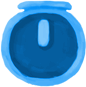
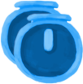
Added punctual power

diff --git a/ScheduleMod/src/main/java/schedulemod/powers/PunctualPower.java b/ScheduleMod/src/main/java/schedulemod/powers/PunctualPower.java
@@ -1,0 +1,69 @@
+package schedulemod.powers;
+
+import basemod.interfaces.CloneablePowerInterface;
+import schedulemod.cards.EventCard;
+import schedulemod.character.Entropy;
+
+import com.megacrit.cardcrawl.actions.common.RemoveSpecificPowerAction;
+import com.megacrit.cardcrawl.cards.AbstractCard;
+import com.megacrit.cardcrawl.core.AbstractCreature;
+import com.megacrit.cardcrawl.powers.AbstractPower;
+import static schedulemod.BasicMod.makeID;
+
+public class PunctualPower extends BasePower implements CloneablePowerInterface, EventPowerInterface {
+    public static final String POWER_ID = makeID("Punctual");
+    private static final AbstractPower.PowerType TYPE = PowerType.BUFF;
+    private static final boolean TURN_BASED = true;
+    private static final boolean CAN_GO_NEGATIVE = true;
+
+    public PunctualPower(AbstractCreature owner, AbstractCreature source, int amount) {
+        super(POWER_ID, TYPE, TURN_BASED, owner, source, amount);
+        this.canGoNegative = CAN_GO_NEGATIVE;
+    }
+
+    public void stackPower(int stackAmount) {
+        this.fontScale = 8.0F;
+        this.amount += stackAmount;
+        if (this.amount == 0)
+            addToTop(new RemoveSpecificPowerAction(this.owner, this.owner, POWER_ID));
+        if (this.amount >= 999)
+            this.amount = 999;
+        if (this.amount <= -999)
+            this.amount = -999;
+    }
+
+    public void reducePower(int reduceAmount) {
+        this.fontScale = 8.0F;
+        this.amount -= reduceAmount;
+        if (this.amount == 0)
+            addToTop(new RemoveSpecificPowerAction(this.owner, this.owner, POWER_ID));
+        if (this.amount >= 999)
+            this.amount = 999;
+        if (this.amount <= -999)
+            this.amount = -999;
+    }
+
+    public void updateDescription() {
+        if (this.amount > 0) {
+            this.description = DESCRIPTIONS[0] + DESCRIPTIONS[2] + this.amount;
+            this.type = AbstractPower.PowerType.BUFF;
+          } else {
+            int tmp = -this.amount;
+            this.description = DESCRIPTIONS[1] + DESCRIPTIONS[2] + tmp;
+            this.type = AbstractPower.PowerType.DEBUFF;
+          } 
+    }
+
+    @Override
+    public AbstractPower makeCopy() {
+        return new PunctualPower(owner, source, amount);
+    }
+
+    public void modifyEvent(EventCard eventCard, AbstractCard triggeringCard) {
+        eventCard.damage += this.amount;
+        eventCard.block += this.amount;
+        if (eventCard.tags.contains(Entropy.Enums.FATIGUE_EVENT)) {
+            eventCard.magicNumber += this.amount;
+        }
+    }
+}

diff --git a/ScheduleMod/src/main/java/schedulemod/powers/FatiguePower.java b/ScheduleMod/src/main/java/schedulemod/powers/FatiguePower.java
@@ -7,6 +7,7 @@ import com.megacrit.cardcrawl.actions.utility.UseCardAction;
 import com.megacrit.cardcrawl.cards.AbstractCard;
 import com.megacrit.cardcrawl.core.AbstractCreature;
 import com.megacrit.cardcrawl.monsters.AbstractMonster;
+import com.megacrit.cardcrawl.monsters.AbstractMonster.Intent;
 import com.megacrit.cardcrawl.powers.AbstractPower;
 import schedulemod.actions.SleepAction;
 
@@ -64,9 +65,17 @@ public class FatiguePower extends BasePower implements CloneablePowerInterface {
     }
 
     private void applySleep() {
-        if (this.owner != null && !this.owner.hasPower(makeID("Sleep")) &&
-                ((AbstractMonster)this.owner).getIntentDmg() >= 0
-                && amount >= ((AbstractMonster)this.owner).getIntentDmg()) {
+        if (!(this.owner instanceof AbstractMonster))
+            return;
+        AbstractMonster m = (AbstractMonster)this.owner;
+        boolean isAttack = m.intent == Intent.ATTACK ||
+                        m.intent == Intent.ATTACK_BUFF ||
+                        m.intent == Intent.ATTACK_DEBUFF ||
+                        m.intent == Intent.ATTACK_DEFEND;
+        if (!m.hasPower(makeID("Sleep")) &&
+                m.getIntentDmg() >= 0
+                && amount >= m.getIntentDmg()
+                && isAttack) {
             addToBot(new ApplyPowerAction(this.owner, this.source, new FatiguePower(this.owner, this.source, -this.amount), -this.amount));
             addToBot(new RemoveSpecificPowerAction(this.owner, this.source, POWER_ID));
             addToBot(new SleepAction((AbstractMonster) this.owner, this.source));

diff --git a/ScheduleMod/src/main/java/schedulemod/orbs/ScheduleOrb.java b/ScheduleMod/src/main/java/schedulemod/orbs/ScheduleOrb.java
@@ -13,6 +13,7 @@ import com.megacrit.cardcrawl.dungeons.AbstractDungeon;
 import com.megacrit.cardcrawl.localization.OrbStrings;
 import com.megacrit.cardcrawl.monsters.AbstractMonster;
 import com.megacrit.cardcrawl.orbs.AbstractOrb;
+import com.megacrit.cardcrawl.powers.AbstractPower;
 import com.megacrit.cardcrawl.vfx.AbstractGameEffect;
 import schedulemod.BasicMod;
 import schedulemod.cards.EventCard;
@@ -21,6 +22,7 @@ import schedulemod.cards.navy.InScheduleCard;
 import schedulemod.character.Entropy;
 import schedulemod.patches.EventsPlayedPatch.EventsPlayedThisCombatField;
 import schedulemod.patches.EventsPlayedPatch.EventsPlayedThisTurnField;
+import schedulemod.powers.EventPowerInterface;
 import schedulemod.powers.FortyEightHourDayPower;
 import schedulemod.vfx.AddCardToScheduleEffect;
 
@@ -122,6 +124,11 @@ public class ScheduleOrb extends AbstractOrb {
         }
         EventsPlayedThisTurnField.eventsPlayedThisTurn.get(AbstractDungeon.actionManager).add(this.eventCard);
         EventsPlayedThisCombatField.eventsPlayedThisCombat.get(AbstractDungeon.actionManager).add(this.eventCard);
+        for (AbstractPower power : p.powers) {
+            if (power instanceof EventPowerInterface) {
+                ((EventPowerInterface)power).modifyEvent(eventCard, triggeringCard);
+            }
+        }
         this.eventCard.useEvent(p, m, triggeringCard);
 
         if (p.hasPower(FortyEightHourDayPower.POWER_ID)) {

diff --git a/ScheduleMod/src/main/java/schedulemod/cards/navy/SubwayScramble.java b/ScheduleMod/src/main/java/schedulemod/cards/navy/SubwayScramble.java
@@ -1,0 +1,36 @@
+package schedulemod.cards.navy;
+
+import com.megacrit.cardcrawl.actions.common.ApplyPowerAction;
+import com.megacrit.cardcrawl.cards.AbstractCard;
+import com.megacrit.cardcrawl.characters.AbstractPlayer;
+import com.megacrit.cardcrawl.monsters.AbstractMonster;
+import schedulemod.character.Entropy;
+import schedulemod.powers.PunctualPower;
+import schedulemod.util.CardStats;
+
+public class SubwayScramble extends BaseCard {
+    public static final String ID = makeID(SubwayScramble.class.getSimpleName());
+    private static final CardStats info = new CardStats(
+            Entropy.Enums.CARD_COLOR,
+            CardType.POWER,
+            CardRarity.UNCOMMON,
+            CardTarget.SELF,
+            1
+    );
+
+    private static final int PUNCTUAL = 2;
+    private static final int UPGRADE_PUNCTUAL = 3;
+
+    public SubwayScramble() {
+        super(ID, info);
+        setMagic(PUNCTUAL, UPGRADE_PUNCTUAL);
+    }
+
+    @Override
+    public void use(AbstractPlayer p, AbstractMonster m) {
+        addToBot(new ApplyPowerAction(p, p, new PunctualPower(p, p, this.magicNumber)));
+    }
+
+    @Override
+    public AbstractCard makeCopy() { return new SubwayScramble(); }
+}

diff --git a/ScheduleMod/src/main/java/schedulemod/cards/tempCards/Lunch.java b/ScheduleMod/src/main/java/schedulemod/cards/tempCards/Lunch.java
@@ -5,6 +5,7 @@ import com.megacrit.cardcrawl.actions.common.ApplyPowerAction;
 import com.megacrit.cardcrawl.actions.common.DamageAction;
 import com.megacrit.cardcrawl.cards.AbstractCard;
 import com.megacrit.cardcrawl.cards.DamageInfo;
+import com.megacrit.cardcrawl.cards.DamageInfo.DamageType;
 import com.megacrit.cardcrawl.characters.AbstractPlayer;
 import com.megacrit.cardcrawl.monsters.AbstractMonster;
 
@@ -33,6 +34,7 @@ public class Lunch extends EventCard {
         setExhaust(true);
         setDamage(ATTACK_DAMAGE, UPGRADE_ATTACK_DAMAGE);
         setMagic(DROWSY);
+        this.damageType = DamageType.THORNS;
     }
 
     @Override

diff --git a/ScheduleMod/src/main/java/schedulemod/actions/DreadfulStrikesAction.java b/ScheduleMod/src/main/java/schedulemod/actions/DreadfulStrikesAction.java
@@ -34,7 +34,7 @@ public class DreadfulStrikesAction extends AbstractGameAction {
                 EventCard eventCard = ((ScheduleOrb)orb).eventCard;
                 if(eventCard instanceof DreadfulStrikes) {
                     eventCard.magicNumber += amount;
-                    eventCard.applyPowers();
+                    eventCard.isMagicNumberModified = eventCard.magicNumber != eventCard.baseMagicNumber;
                     eventCard.initializeDescription();
                 }
             }

diff --git a/ScheduleMod/src/main/java/schedulemod/character/Entropy.java b/ScheduleMod/src/main/java/schedulemod/character/Entropy.java
@@ -83,6 +83,8 @@ public class Entropy extends CustomPlayer {
         public static AbstractCard.CardTags BREAD;
         @SpireEnum(name = "EVENT")
         public static AbstractCard.CardTags EVENT;
+        @SpireEnum(name = "FATIGUE_EVENT")
+        public static AbstractCard.CardTags FATIGUE_EVENT;
         @SpireEnum(name = "SCHEDULE_GLOW")
         public static AbstractCard.CardTags SCHEDULE_GLOW;
     }

diff --git a/ScheduleMod/src/main/java/schedulemod/cards/tempCards/Nap.java b/ScheduleMod/src/main/java/schedulemod/cards/tempCards/Nap.java
@@ -24,6 +24,7 @@ public class Nap extends EventCard {
     public Nap() {
         super(ID, info);
         tags.add(Entropy.Enums.EVENT);
+        tags.add(Entropy.Enums.FATIGUE_EVENT);
         // TODO: fix later
         setExhaust(true);
         setMagic(FATIGUE, UPGRADE_FATIGUE);

diff --git a/ScheduleMod/src/main/java/schedulemod/powers/EventPowerInterface.java b/ScheduleMod/src/main/java/schedulemod/powers/EventPowerInterface.java
@@ -1,0 +1,9 @@
+package schedulemod.powers;
+
+import com.megacrit.cardcrawl.cards.AbstractCard;
+
+import schedulemod.cards.EventCard;
+
+public interface EventPowerInterface {
+    public void modifyEvent(EventCard eventCard, AbstractCard triggeringCard);
+}
